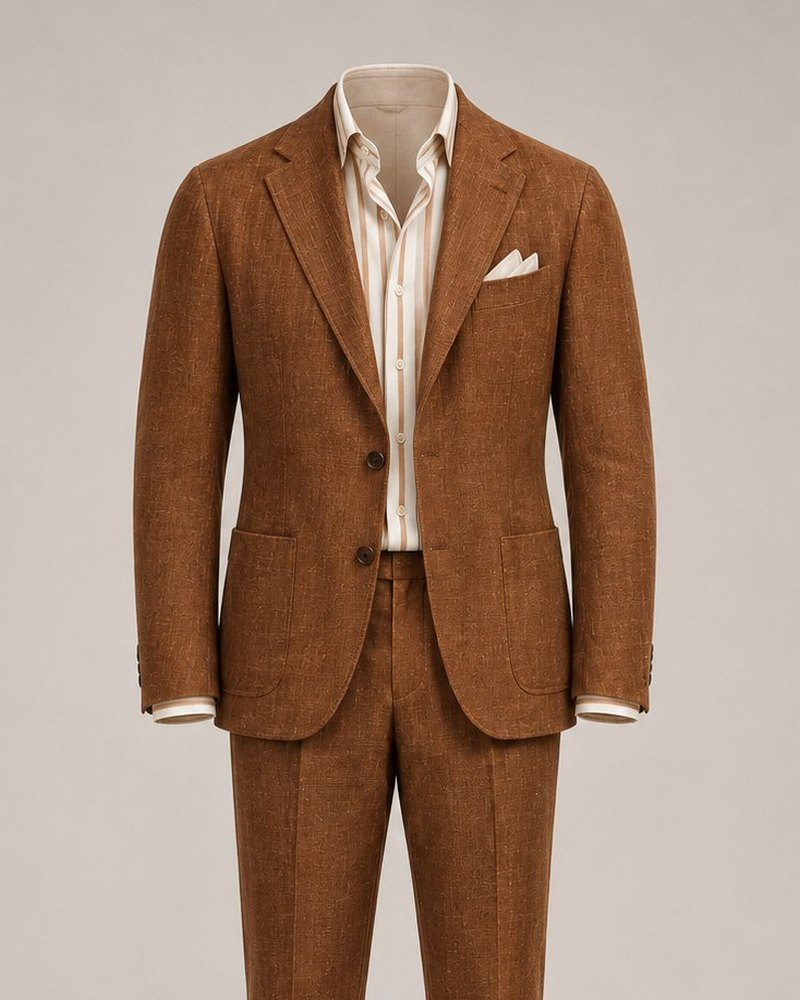
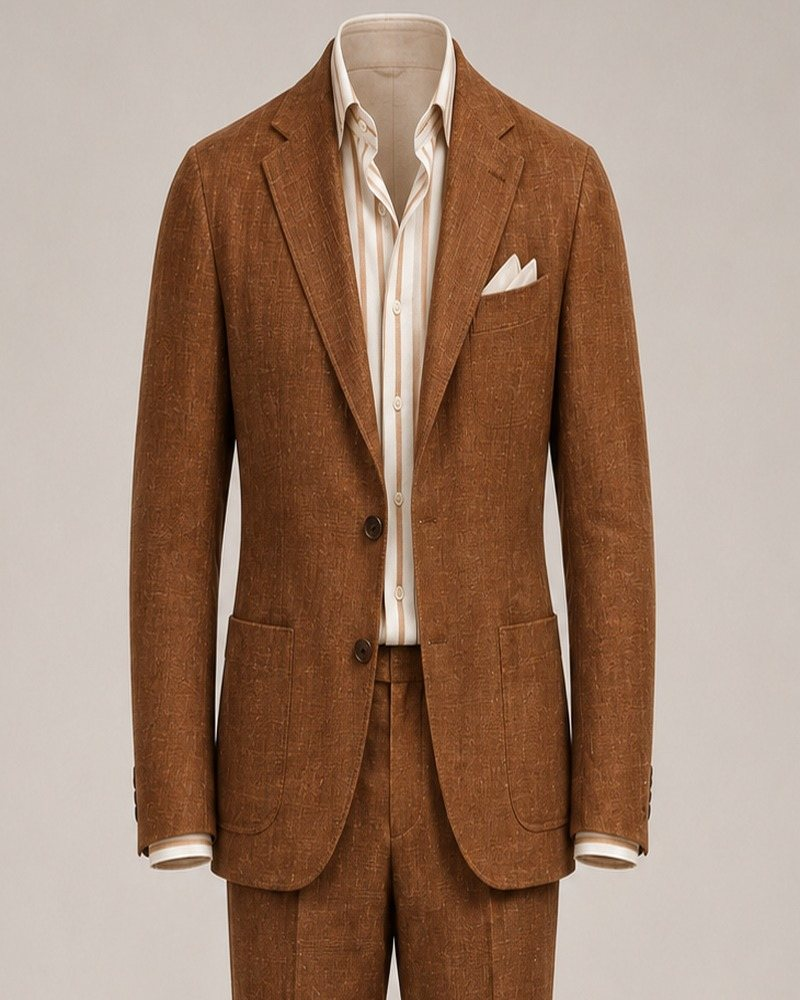
Use updated library: 13 jacket views, 10 standalone shoe styles with prices, euro prices, no est. badge

Changed region(s): [[0.1562, 0.0, 0.8438, 1.0], [0.6875, 0.217, 0.7188, 0.248]]

diff --git a/js/data.js b/js/data.js
@@ -21,67 +21,67 @@ window.CM = {
     { id: 'db180', season: 'all', name: "Dark Blue Pure S180's Wool",          c: '#172544', weave: 'plain',   usd: 1523, wear: 'Finest wool in the range.',                 occ: ['eve', 'wed', 'sig'] },
     { id: 'nwf', season: 'all',   name: 'Navy Pure Wrinkle-Free 4-Ply Wool',   c: '#1e2b46', weave: 'plain',   usd: 1023, wear: 'Resists creasing. Built for travel.',       occ: ['trv', 'off', 'int'] },
     { id: 'dgwc', season: 'winter',  name: 'Dark Green Wool Cashmere',            c: '#2e4a3b', weave: 'plain',   usd: 1023, wear: 'Soft cashmere blend in green.',             occ: ['eve', 'sig'] },
-    { id: 'mid_blue_windowpane', season: 'all', name: "Mid Blue Windowpane Wool", c: '#486b8c', weave: 'check', pat: "Windowpane check", usd: 923, wear: "Woven wool.", occ: ['off', 'int', 'wed'], lib: 'mid_blue_windowpane', est: true },
-    { id: 'charcoal_flannel', season: 'winter', name: "Charcoal Brushed Flannel", c: '#464747', weave: 'flannel', pat: "Flannel", usd: 923, wear: "Soft brushed surface. Warm.", occ: ['off', 'int', 'eve'], lib: 'charcoal_flannel', est: true },
-    { id: 'grey_glen_plaid', season: 'all', name: "Grey Glen Plaid Wool", c: '#999691', weave: 'check', pat: "Glen plaid", usd: 923, wear: "Woven wool.", occ: ['off', 'int', 'wed'], lib: 'grey_glen_plaid', est: true },
-    { id: 'navy_chalk_pinstripe', season: 'all', name: "Navy Chalk Pinstripe Wool", c: '#243045', weave: 'stripe', pat: "Pinstripe", usd: 923, wear: "Woven wool.", occ: ['off', 'int', 'eve'], lib: 'navy_chalk_pinstripe', est: true },
-    { id: 'brown_herringbone_tweed', season: 'winter', name: "Brown Herringbone Tweed", c: '#776251', weave: 'herring', pat: "Herringbone", usd: 1023, wear: "A zig-zag weave. Adds depth.", occ: ['cas', 'off', 'int'], lib: 'brown_herringbone_tweed', est: true },
-    { id: 'forest_green_hopsack', season: 'all', name: "Forest Green Hopsack", c: '#35463b', weave: 'textured', pat: "Hopsack", usd: 923, wear: "Open basket weave. Breathes well.", occ: ['wed', 'cas'], lib: 'forest_green_hopsack', est: true },
-    { id: 'burgundy_wool_twill', season: 'all', name: "Burgundy Wool Twill", c: '#622c3a', weave: 'plain', pat: "Fine twill", usd: 923, wear: "Smooth everyday wool.", occ: ['wed', 'eve'], lib: 'burgundy_wool_twill', est: true },
-    { id: 'ivory_irregular_linen', season: 'summer', name: "Ivory Irish Linen", c: '#daccb1', weave: 'plain', pat: "Linen", usd: 723, wear: "Airy and relaxed. Creases by design.", occ: ['wed', 'res'], lib: 'ivory_irregular_linen', est: true },
-    { id: 'sand_linen_blend', season: 'summer', name: "Sand Linen Blend", c: '#b6a082', weave: 'plain', pat: "Linen", usd: 773, wear: "Airy and relaxed. Creases by design.", occ: ['wed', 'res'], lib: 'sand_linen_blend', est: true },
-    { id: 'rust_linen', season: 'summer', name: "Rust Washed Linen", c: '#aa704e', weave: 'plain', pat: "Linen", usd: 723, wear: "Airy and relaxed. Creases by design.", occ: ['cas', 'res'], lib: 'rust_linen', est: true },
-    { id: 'sage_tropical_wool', season: 'summer', name: "Sage Green Tropical Wool", c: '#899987', weave: 'plain', pat: "Tropical weave", usd: 923, wear: "Open weave for warm weather.", occ: ['wed', 'res'], lib: 'sage_tropical_wool', est: true },
-    { id: 'midnight_blue_velvet', season: 'winter', name: "Midnight Blue Cotton Velvet", c: '#172545', weave: 'textured', pat: "Velvet", usd: 973, wear: "Rich pile with a soft sheen.", occ: ['eve'], lib: 'midnight_blue_velvet', est: true },
-    { id: 'cream_wool_silk', season: 'all', name: "Cream Wool Silk Blend", c: '#d1c2a7', weave: 'textured', pat: "Birdseye", usd: 1123, wear: "Tiny dotted pattern. Quiet from afar.", occ: ['wed', 'cas'], lib: 'cream_wool_silk', est: true },
-    { id: 'chocolate_brown_flannel', season: 'winter', name: "Chocolate Brown Flannel", c: '#53443c', weave: 'flannel', pat: "Flannel", usd: 923, wear: "Soft brushed surface. Warm.", occ: ['off', 'int', 'cas'], lib: 'chocolate_brown_flannel', est: true },
-    { id: 'charcoal_birdseye', season: 'all', name: "Charcoal Birdseye Wool", c: '#555a5b', weave: 'textured', pat: "Birdseye", usd: 923, wear: "Tiny dotted pattern. Quiet from afar.", occ: ['off', 'int', 'eve'], lib: 'charcoal_birdseye', est: true },
-    { id: 'sky_blue_seersucker', season: 'summer', name: "Sky Blue Seersucker", c: '#a5bfd2', weave: 'textured', pat: "Seersucker", usd: 673, wear: "Puckered cotton that stays cool.", occ: ['res', 'cas'], lib: 'sky_blue_seersucker', est: true },
-    { id: 'navy_mini_houndstooth', season: 'all', name: "Navy Mini Houndstooth", c: '#354254', weave: 'check', pat: "Houndstooth", usd: 923, wear: "Small broken check.", occ: ['off', 'int', 'wed'], lib: 'navy_mini_houndstooth', est: true },
-    { id: 'tobacco_prince_of_wales', season: 'winter', name: "Tobacco Prince of Wales Check", c: '#86705a', weave: 'check', pat: "Prince check", usd: 923, wear: "Woven wool.", occ: ['off', 'int', 'wed'], lib: 'tobacco_prince_of_wales', est: true },
-    { id: 'indigo_nailhead', season: 'all', name: "Indigo Nailhead Wool", c: '#304867', weave: 'check', pat: "Nailhead", usd: 923, wear: "Tiny dots in a regular grid.", occ: ['off', 'int', 'eve'], lib: 'indigo_nailhead', est: true },
-    { id: 'stone_boucle', season: 'winter', name: "Stone Boucl\u00c3\u00a9 Weave", c: '#d2c4ab', weave: 'textured', pat: "Boucle", usd: 873, wear: "Looped yarn with a soft, nubby surface.", occ: ['cas', 'wed'], lib: 'stone_boucle', est: true },
-    { id: 'olive_fine_corduroy', season: 'winter', name: "Olive Needlecord", c: '#5c6749', weave: 'textured', pat: "Corduroy", usd: 673, wear: "Ribbed cotton. Relaxed and warm.", occ: ['cas'], lib: 'olive_fine_corduroy', est: true },
-    { id: 'copper_wide_wale_corduroy', season: 'winter', name: "Copper Wide-Wale Corduroy", c: '#945a36', weave: 'textured', pat: "Corduroy wide", usd: 673, wear: "Woven wool.", occ: ['cas'], lib: 'copper_wide_wale_corduroy', est: true },
-    { id: 'ocean_blue_sharkskin', season: 'all', name: "Ocean Blue Sharkskin", c: '#54788f', weave: 'textured', pat: "Sharkskin", usd: 923, wear: "Fine two-tone weave with a subtle sheen.", occ: ['off', 'int', 'wed'], lib: 'ocean_blue_sharkskin', est: true },
-    { id: 'plum_dinner_velvet', season: 'winter', name: "Plum Evening Velvet", c: '#543148', weave: 'textured', pat: "Velvet", usd: 973, wear: "Rich pile with a soft sheen.", occ: ['eve'], lib: 'plum_dinner_velvet', est: true },
-    { id: 'camel_cashmere_wool', season: 'winter', name: "Camel Cashmere Wool", c: '#b29471', weave: 'plain', pat: "Cashmere", usd: 1223, wear: "Very soft. Warm without weight.", occ: ['off', 'int', 'cas'], lib: 'camel_cashmere_wool', est: true },
-    { id: 'steel_blue_microcheck', season: 'all', name: "Steel Blue Microcheck", c: '#5d7183', weave: 'check', pat: "Microcheck", usd: 923, wear: "Woven wool.", occ: ['off', 'int', 'wed'], lib: 'steel_blue_microcheck', est: true },
-    { id: 'tan_rust_overcheck', season: 'winter', name: "Tan Rust Overcheck", c: '#ad997e', weave: 'check', pat: "Overcheck", usd: 873, wear: "Woven wool.", occ: ['cas', 'off', 'int'], lib: 'tan_rust_overcheck', est: true },
-    { id: 'moss_basketweave', season: 'all', name: "Moss Basketweave", c: '#64745e', weave: 'textured', pat: "Basketweave", usd: 923, wear: "Chunky woven texture.", occ: ['cas', 'wed'], lib: 'moss_basketweave', est: true },
-    { id: 'midnight_mohair', season: 'all', name: "Midnight Mohair Blend", c: '#1c2d3a', weave: 'plain', pat: "Mohair", usd: 1123, wear: "Crisp, lustrous and light.", occ: ['eve', 'off', 'int'], lib: 'midnight_mohair', est: true },
-    { id: 'forest_blackwatch_tartan', season: 'winter', name: "Forest Blackwatch Tartan", c: '#304941', weave: 'check', pat: "Tartan", usd: 923, wear: "A traditional check in deep colours.", occ: ['sig', 'wed'], lib: 'forest_blackwatch_tartan', est: true }
+    { id: 'mid_blue_windowpane', season: 'all', name: "Mid Blue Windowpane Wool", c: '#486b8c', weave: 'check', pat: "Windowpane check", usd: 960, wear: "Woven wool.", occ: ['off', 'int', 'wed'], lib: 'mid_blue_windowpane' },
+    { id: 'charcoal_flannel', season: 'winter', name: "Charcoal Brushed Flannel", c: '#464747', weave: 'flannel', pat: "Flannel", usd: 837, wear: "Soft brushed surface. Warm.", occ: ['off', 'int', 'eve'], lib: 'charcoal_flannel' },
+    { id: 'grey_glen_plaid', season: 'all', name: "Grey Glen Plaid Wool", c: '#999691', weave: 'check', pat: "Glen plaid", usd: 902, wear: "Woven wool.", occ: ['off', 'int', 'wed'], lib: 'grey_glen_plaid' },
+    { id: 'navy_chalk_pinstripe', season: 'all', name: "Navy Chalk Pinstripe Wool", c: '#243045', weave: 'stripe', pat: "Pinstripe", usd: 937, wear: "Woven wool.", occ: ['off', 'int', 'eve'], lib: 'navy_chalk_pinstripe' },
+    { id: 'brown_herringbone_tweed', season: 'winter', name: "Brown Herringbone Tweed", c: '#776251', weave: 'herring', pat: "Herringbone", usd: 1053, wear: "A zig-zag weave. Adds depth.", occ: ['cas', 'off', 'int'], lib: 'brown_herringbone_tweed' },
+    { id: 'forest_green_hopsack', season: 'all', name: "Forest Green Hopsack", c: '#35463b', weave: 'textured', pat: "Hopsack", usd: 837, wear: "Open basket weave. Breathes well.", occ: ['wed', 'cas'], lib: 'forest_green_hopsack' },
+    { id: 'burgundy_wool_twill', season: 'all', name: "Burgundy Wool Twill", c: '#622c3a', weave: 'plain', pat: "Fine twill", usd: 861, wear: "Smooth everyday wool.", occ: ['wed', 'eve'], lib: 'burgundy_wool_twill' },
+    { id: 'ivory_irregular_linen', season: 'summer', name: "Ivory Irish Linen", c: '#daccb1', weave: 'plain', pat: "Linen", usd: 796, wear: "Airy and relaxed. Creases by design.", occ: ['wed', 'res'], lib: 'ivory_irregular_linen' },
+    { id: 'sand_linen_blend', season: 'summer', name: "Sand Linen Blend", c: '#b6a082', weave: 'plain', pat: "Linen", usd: 902, wear: "Airy and relaxed. Creases by design.", occ: ['wed', 'res'], lib: 'sand_linen_blend' },
+    { id: 'rust_linen', season: 'summer', name: "Rust Washed Linen", c: '#aa704e', weave: 'plain', pat: "Linen", usd: 736, wear: "Airy and relaxed. Creases by design.", occ: ['cas', 'res'], lib: 'rust_linen' },
+    { id: 'sage_tropical_wool', season: 'summer', name: "Sage Green Tropical Wool", c: '#899987', weave: 'plain', pat: "Tropical weave", usd: 766, wear: "Open weave for warm weather.", occ: ['wed', 'res'], lib: 'sage_tropical_wool' },
+    { id: 'midnight_blue_velvet', season: 'winter', name: "Midnight Blue Cotton Velvet", c: '#172545', weave: 'textured', pat: "Velvet", usd: 1147, wear: "Rich pile with a soft sheen.", occ: ['eve'], lib: 'midnight_blue_velvet' },
+    { id: 'cream_wool_silk', season: 'all', name: "Cream Wool Silk Blend", c: '#d1c2a7', weave: 'textured', pat: "Birdseye", usd: 902, wear: "Tiny dotted pattern. Quiet from afar.", occ: ['wed', 'cas'], lib: 'cream_wool_silk' },
+    { id: 'chocolate_brown_flannel', season: 'winter', name: "Chocolate Brown Flannel", c: '#53443c', weave: 'flannel', pat: "Flannel", usd: 837, wear: "Soft brushed surface. Warm.", occ: ['off', 'int', 'cas'], lib: 'chocolate_brown_flannel' },
+    { id: 'charcoal_birdseye', season: 'all', name: "Charcoal Birdseye Wool", c: '#555a5b', weave: 'textured', pat: "Birdseye", usd: 861, wear: "Tiny dotted pattern. Quiet from afar.", occ: ['off', 'int', 'eve'], lib: 'charcoal_birdseye' },
+    { id: 'sky_blue_seersucker', season: 'summer', name: "Sky Blue Seersucker", c: '#a5bfd2', weave: 'textured', pat: "Seersucker", usd: 684, wear: "Puckered cotton that stays cool.", occ: ['res', 'cas'], lib: 'sky_blue_seersucker' },
+    { id: 'navy_mini_houndstooth', season: 'all', name: "Navy Mini Houndstooth", c: '#354254', weave: 'check', pat: "Houndstooth", usd: 937, wear: "Small broken check.", occ: ['off', 'int', 'wed'], lib: 'navy_mini_houndstooth' },
+    { id: 'tobacco_prince_of_wales', season: 'winter', name: "Tobacco Prince of Wales Check", c: '#86705a', weave: 'check', pat: "Prince check", usd: 913, wear: "Woven wool.", occ: ['off', 'int', 'wed'], lib: 'tobacco_prince_of_wales' },
+    { id: 'indigo_nailhead', season: 'all', name: "Indigo Nailhead Wool", c: '#304867', weave: 'check', pat: "Nailhead", usd: 861, wear: "Tiny dots in a regular grid.", occ: ['off', 'int', 'eve'], lib: 'indigo_nailhead' },
+    { id: 'stone_boucle', season: 'winter', name: "Stone Boucl\u00c3\u00a9 Weave", c: '#d2c4ab', weave: 'textured', pat: "Boucle", usd: 966, wear: "Looped yarn with a soft, nubby surface.", occ: ['cas', 'wed'], lib: 'stone_boucle' },
+    { id: 'olive_fine_corduroy', season: 'winter', name: "Olive Needlecord", c: '#5c6749', weave: 'textured', pat: "Corduroy", usd: 669, wear: "Ribbed cotton. Relaxed and warm.", occ: ['cas'], lib: 'olive_fine_corduroy' },
+    { id: 'copper_wide_wale_corduroy', season: 'winter', name: "Copper Wide-Wale Corduroy", c: '#945a36', weave: 'textured', pat: "Corduroy wide", usd: 601, wear: "Woven wool.", occ: ['cas'], lib: 'copper_wide_wale_corduroy' },
+    { id: 'ocean_blue_sharkskin', season: 'all', name: "Ocean Blue Sharkskin", c: '#54788f', weave: 'textured', pat: "Sharkskin", usd: 861, wear: "Fine two-tone weave with a subtle sheen.", occ: ['off', 'int', 'wed'], lib: 'ocean_blue_sharkskin' },
+    { id: 'plum_dinner_velvet', season: 'winter', name: "Plum Evening Velvet", c: '#543148', weave: 'textured', pat: "Velvet", usd: 1147, wear: "Rich pile with a soft sheen.", occ: ['eve'], lib: 'plum_dinner_velvet' },
+    { id: 'camel_cashmere_wool', season: 'winter', name: "Camel Cashmere Wool", c: '#b29471', weave: 'plain', pat: "Cashmere", usd: 1351, wear: "Very soft. Warm without weight.", occ: ['off', 'int', 'cas'], lib: 'camel_cashmere_wool' },
+    { id: 'steel_blue_microcheck', season: 'all', name: "Steel Blue Microcheck", c: '#5d7183', weave: 'check', pat: "Microcheck", usd: 837, wear: "Woven wool.", occ: ['off', 'int', 'wed'], lib: 'steel_blue_microcheck' },
+    { id: 'tan_rust_overcheck', season: 'winter', name: "Tan Rust Overcheck", c: '#ad997e', weave: 'check', pat: "Overcheck", usd: 861, wear: "Woven wool.", occ: ['cas', 'off', 'int'], lib: 'tan_rust_overcheck' },
+    { id: 'moss_basketweave', season: 'all', name: "Moss Basketweave", c: '#64745e', weave: 'textured', pat: "Basketweave", usd: 884, wear: "Chunky woven texture.", occ: ['cas', 'wed'], lib: 'moss_basketweave' },
+    { id: 'midnight_mohair', season: 'all', name: "Midnight Mohair Blend", c: '#1c2d3a', weave: 'plain', pat: "Mohair", usd: 1036, wear: "Crisp, lustrous and light.", occ: ['eve', 'off', 'int'], lib: 'midnight_mohair' },
+    { id: 'forest_blackwatch_tartan', season: 'winter', name: "Forest Blackwatch Tartan", c: '#304941', weave: 'check', pat: "Tartan", usd: 931, wear: "A traditional check in deep colours.", occ: ['sig', 'wed'], lib: 'forest_blackwatch_tartan' }
   ],
 
   /* Designs: full-outfit photos per occasion, with a jacket-only view and a shoe photo where the library has one.
      Cloth names and compositions for library cloths are illustrative. */
   designs: [
-    { id: 'wedding-linen', occ: 'wed', name: "Ivory linen", desc: "Light linen for a summer ceremony", image: 'library/suits/wedding-linen.jpg', jacket: 'library/jackets/wedding-linen.jpg', shoes: 'wedding-linen' },
-    { id: 'cream-linen', occ: 'wed', name: "Cream linen", desc: "A softer cream, relaxed and airy", image: 'library/suits/cream-linen.jpg', cloth: 'ivory_irregular_linen', jacket: 'library/jackets/cream-linen.jpg' },
-    { id: 'modern-grey-check', occ: 'off', name: "Grey check", desc: "A tailored checked suit for work", image: 'library/suits/modern-grey-check.jpg', jacket: 'library/jackets/modern-grey-check.jpg', shoes: 'modern-grey-check' },
-    { id: 'brown-glen-plaid', occ: 'off', name: "Brown glen plaid", desc: "Warm plaid with a fine overcheck", image: 'library/suits/brown-glen-plaid.jpg', cloth: 'tobacco_prince_of_wales', jacket: 'library/jackets/brown-glen-plaid.jpg', shoes: 'brown-glen-plaid' },
-    { id: 'charcoal-pinstripe', occ: 'off', name: "Charcoal pinstripe", desc: "A three-piece with a waistcoat", image: 'library/suits/charcoal-pinstripe.jpg', cloth: 'dgstr', jacket: 'library/jackets/charcoal-pinstripe.jpg', shoes: 'charcoal-pinstripe' },
-    { id: 'smart-casual-blue', occ: 'cas', name: "Blue blazer", desc: "Blazer and cream trousers, no tie", image: 'library/suits/smart-casual-blue.jpg', jacket: 'library/jackets/smart-casual-blue.jpg', shoes: 'smart-casual-blue' },
-    { id: 'summer-resort-taupe', occ: 'res', name: "Sand linen", desc: "Light and easy for warm weather", image: 'library/suits/summer-resort-taupe.jpg', jacket: 'library/jackets/summer-resort-taupe.jpg' },
-    { id: 'rust-linen', occ: 'res', name: "Rust linen", desc: "A warm, washed linen colour", image: 'library/suits/rust-linen.jpg', cloth: 'rust_linen', jacket: 'library/jackets/rust-linen.jpg' },
-    { id: 'black-tie', occ: 'eve', name: "Black tie", desc: "Tuxedo with a peak lapel", image: 'library/suits/black-tie.jpg', jacket: 'library/jackets/black-tie.jpg', shoes: 'black-tie' },
-    { id: 'business-navy', occ: 'int', name: "Navy business", desc: "A polished navy wool suit", image: 'library/suits/business-navy.jpg', jacket: 'library/jackets/business-navy.jpg', shoes: 'business-navy' },
-    { id: 'travel-blue-grey', occ: 'trv', name: "Blue-grey casual", desc: "Soft tailoring with sneakers", image: 'library/suits/travel-blue-grey.jpg', jacket: 'library/jackets/travel-blue-grey.jpg', shoes: 'travel-blue-grey' },
-    { id: 'statement-forest', occ: 'sig', name: "Forest double-breasted", desc: "A textured green double-breasted suit", image: 'library/suits/statement-forest.jpg', jacket: 'library/jackets/statement-forest.jpg', shoes: 'statement-forest' },
-    { id: 'burgundy-modern', occ: 'sig', name: "Burgundy", desc: "A deep wine suit with a dark polo", image: 'library/suits/burgundy-modern.jpg', cloth: 'burgundy_wool_twill', jacket: 'library/jackets/burgundy-modern.jpg', shoes: 'burgundy-modern' }
+    { id: 'wedding-linen', occ: 'wed', name: "Ivory linen", desc: "Light linen for a summer ceremony", image: 'library/suits/wedding-linen.jpg', jacket: 'library/jackets/wedding-linen.jpg', shoes: 'dark_brown_tassel_loafers' },
+    { id: 'cream-linen', occ: 'wed', name: "Cream linen", desc: "A softer cream, relaxed and airy", image: 'library/suits/cream-linen.jpg', cloth: 'ivory_irregular_linen', jacket: 'library/jackets/cream-linen.jpg', shoes: 'tobacco_suede_penny_loafers' },
+    { id: 'modern-grey-check', occ: 'off', name: "Grey check", desc: "A tailored checked suit for work", image: 'library/suits/modern-grey-check.jpg', jacket: 'library/jackets/modern-grey-check.jpg', shoes: 'brown_double_monk_straps' },
+    { id: 'brown-glen-plaid', occ: 'off', name: "Brown glen plaid", desc: "Warm plaid with a fine overcheck", image: 'library/suits/brown-glen-plaid.jpg', cloth: 'tobacco_prince_of_wales', jacket: 'library/jackets/brown-glen-plaid.jpg', shoes: 'cognac_plain_toe_oxfords' },
+    { id: 'charcoal-pinstripe', occ: 'off', name: "Charcoal pinstripe", desc: "A three-piece with a waistcoat", image: 'library/suits/charcoal-pinstripe.jpg', cloth: 'dgstr', jacket: 'library/jackets/charcoal-pinstripe.jpg', shoes: 'black_cap_toe_oxfords' },
+    { id: 'smart-casual-blue', occ: 'cas', name: "Blue blazer", desc: "Blazer and cream trousers, no tie", image: 'library/suits/smart-casual-blue.jpg', jacket: 'library/jackets/smart-casual-blue.jpg', shoes: 'tobacco_suede_penny_loafers' },
+    { id: 'summer-resort-taupe', occ: 'res', name: "Sand linen", desc: "Light and easy for warm weather", image: 'library/suits/summer-resort-taupe.jpg', jacket: 'library/jackets/summer-resort-taupe.jpg', shoes: 'sand_suede_chukka_boots' },
+    { id: 'rust-linen', occ: 'res', name: "Rust linen", desc: "A warm, washed linen colour", image: 'library/suits/rust-linen.jpg', cloth: 'rust_linen', jacket: 'library/jackets/rust-linen.jpg', shoes: 'dark_brown_chelsea_boots' },
+    { id: 'black-tie', occ: 'eve', name: "Black tie", desc: "Tuxedo with a peak lapel", image: 'library/suits/black-tie.jpg', jacket: 'library/jackets/black-tie.jpg', shoes: 'black_cap_toe_oxfords' },
+    { id: 'business-navy', occ: 'int', name: "Navy business", desc: "A polished navy wool suit", image: 'library/suits/business-navy.jpg', jacket: 'library/jackets/business-navy.jpg', shoes: 'black_cap_toe_oxfords' },
+    { id: 'travel-blue-grey', occ: 'trv', name: "Blue-grey casual", desc: "Soft tailoring with sneakers", image: 'library/suits/travel-blue-grey.jpg', jacket: 'library/jackets/travel-blue-grey.jpg', shoes: 'white_minimal_leather_sneakers' },
+    { id: 'statement-forest', occ: 'sig', name: "Forest double-breasted", desc: "A textured green double-breasted suit", image: 'library/suits/statement-forest.jpg', jacket: 'library/jackets/statement-forest.jpg', shoes: 'brown_double_monk_straps' },
+    { id: 'burgundy-modern', occ: 'sig', name: "Burgundy", desc: "A deep wine suit with a dark polo", image: 'library/suits/burgundy-modern.jpg', cloth: 'burgundy_wool_twill', jacket: 'library/jackets/burgundy-modern.jpg', shoes: 'black_wingtip_brogues' }
   ],
 
   shoeStyles: [
-    { id: 'charcoal-pinstripe', name: "Black Leather Cap-Toe Oxfords", color: 'black', type: "cap-toe oxford", image: 'library/shoes/charcoal-pinstripe.jpg' },
-    { id: 'business-navy', name: "Black Leather Lace-Up Oxfords", color: 'black', type: "oxford", image: 'library/shoes/business-navy.jpg' },
-    { id: 'black-tie', name: "Black Patent Formal Lace-Ups", color: 'black', type: "formal oxford", image: 'library/shoes/black-tie.jpg' },
-    { id: 'modern-grey-check', name: "Oxblood Leather Penny Loafers", color: 'oxblood', type: "penny loafer", image: 'library/shoes/modern-grey-check.jpg' },
-    { id: 'statement-forest', name: "Chocolate Leather Loafers", color: 'dark brown', type: "loafer", image: 'library/shoes/statement-forest.jpg' },
-    { id: 'smart-casual-blue', name: "Dark Brown Suede Penny Loafers", color: 'brown', type: "suede loafer", image: 'library/shoes/smart-casual-blue.jpg' },
-    { id: 'wedding-linen', name: "Brown Suede Dress Loafers", color: 'brown', type: "suede loafer", image: 'library/shoes/wedding-linen.jpg' },
-    { id: 'travel-blue-grey', name: "Minimal White Leather Sneakers", color: 'white', type: "sneaker", image: 'library/shoes/travel-blue-grey.jpg' },
-    { id: 'burgundy-modern', name: "Black Leather Chelsea Boots", color: 'black', type: "chelsea boot", image: 'library/shoes/burgundy-modern.jpg' },
-    { id: 'brown-glen-plaid', name: "Burgundy Brown Leather Loafers", color: 'brown', type: "loafer", image: 'library/shoes/brown-glen-plaid.jpg' }
+    { id: 'black_cap_toe_oxfords', name: "Black Cap-Toe Oxfords", color: "black", type: "oxford", material: "calf leather", price: 420, image: 'library/shoes/black_cap_toe_oxfords.jpg' },
+    { id: 'cognac_plain_toe_oxfords', name: "Cognac Plain-Toe Oxfords", color: "cognac", type: "oxford", material: "calf leather", price: 395, image: 'library/shoes/cognac_plain_toe_oxfords.jpg' },
+    { id: 'black_wingtip_brogues', name: "Black Wingtip Brogues", color: "black", type: "brogue", material: "calf leather", price: 450, image: 'library/shoes/black_wingtip_brogues.jpg' },
+    { id: 'brown_double_monk_straps', name: "Brown Double Monk Straps", color: "brown", type: "monk strap", material: "calf leather", price: 440, image: 'library/shoes/brown_double_monk_straps.jpg' },
+    { id: 'dark_brown_tassel_loafers', name: "Dark Brown Tassel Loafers", color: "dark brown", type: "tassel loafer", material: "calf leather", price: 385, image: 'library/shoes/dark_brown_tassel_loafers.jpg' },
+    { id: 'black_penny_loafers', name: "Black Penny Loafers", color: "black", type: "penny loafer", material: "calf leather", price: 360, image: 'library/shoes/black_penny_loafers.jpg' },
+    { id: 'tobacco_suede_penny_loafers', name: "Tobacco Suede Penny Loafers", color: "tobacco", type: "suede loafer", material: "suede", price: 320, image: 'library/shoes/tobacco_suede_penny_loafers.jpg' },
+    { id: 'dark_brown_chelsea_boots', name: "Dark Brown Chelsea Boots", color: "dark brown", type: "chelsea boot", material: "calf leather", price: 480, image: 'library/shoes/dark_brown_chelsea_boots.jpg' },
+    { id: 'sand_suede_chukka_boots', name: "Sand Suede Chukka Boots", color: "sand", type: "chukka boot", material: "suede", price: 425, image: 'library/shoes/sand_suede_chukka_boots.jpg' },
+    { id: 'white_minimal_leather_sneakers', name: "White Minimal Leather Sneakers", color: "white", type: "sneaker", material: "leather", price: 295, image: 'library/shoes/white_minimal_leather_sneakers.jpg' }
   ],
 
   occasions: [

diff --git a/js/app.js b/js/app.js
@@ -176,7 +176,7 @@
     if (st.style.canvas === 'full') out.push(['Full canvas', 150]);
     if (st.style.button === 'mop') out.push(['Mother-of-pearl buttons', 25]);
     if (st.mono.trim()) out.push(['Monogram ' + st.mono.toUpperCase(), 15]);
-    D.extras.forEach(function (x) { if (st.on[x.id]) out.push([x.id === 'shoes' && st.shoe && shoeSel() ? x.name + ', ' + shoeSel().name.toLowerCase() : x.name + (st.col[x.id] ? ', ' + cname(st.col[x.id]).toLowerCase() : ''), x.price]); });
+    D.extras.forEach(function (x) { if (st.on[x.id]) out.push([x.id === 'shoes' ? shoeSel().name : x.name + (st.col[x.id] ? ', ' + cname(st.col[x.id]).toLowerCase() : ''), extraPrice(x)]); });
     return out;
   }
   function total() { return lines().reduce(function (s, l) { return s + l[1]; }, 0); }
@@ -217,7 +217,7 @@
       var b = el('button', 'card'); b.type = 'button'; b.setAttribute('aria-pressed', String(x.c.id === st.cloth));
       b.innerHTML = '<span class="img"><span class="sw" style="' + swatch(x.c, 130) + '"></span>' +
         (i === 0 && !st.all ? '<span class="badge">Best match</span>' : '') + '<span class="pct">' + x.pct + '%</span></span>' +
-        '<span class="nm">' + x.c.name + '</span><span class="sub">' + x.c.wear + '</span><span class="pc">' + money(eur(x.c.usd)) + (x.c.est ? ' <small title="Estimated price for this concept cloth">est.</small>' : '') + '</span>';
+        '<span class="nm">' + x.c.name + '</span><span class="sub">' + x.c.wear + '</span><span class="pc">' + money(eur(x.c.usd)) + '</span>';
       b.onclick = function () { st.cloth = x.c.id; st.view = 'full'; resetOutfit(); update(); };
       return b;
     }));
@@ -367,13 +367,14 @@
   /* ---------- extras ---------- */
   function shoeSel() {
     var id = st.shoe || (curDesign() && curDesign().shoes) || null;
-    return id ? D.shoeStyles.filter(function (s) { return s.id === id; })[0] || null : null;
+    return D.shoeStyles.filter(function (s) { return s.id === id; })[0] || D.shoeStyles[0];
   }
+  function extraPrice(x) { return x.id === 'shoes' ? shoeSel().price : x.price; }
   function renderExtras() {
     var r = recs();
     fill('extras', D.extras.map(function (x) {
       var on = !!st.on[x.id], card = el('div', 'card extra' + (on ? ' on' : ''));
-      var shoeS = x.id === 'shoes' && st.shoe ? shoeSel() : null;
+      var shoeS = x.id === 'shoes' ? shoeSel() : null;
       var selectedImage = x.variants && st.col[x.id] && x.variants[st.col[x.id]] ? x.variants[st.col[x.id]] : x.image;
       var img = el('button', 'img'); img.type = 'button'; img.setAttribute('aria-pressed', String(on)); img.setAttribute('aria-label', (on ? 'Remove ' : 'Add ') + x.name);
       img.style.border = '0'; img.style.padding = '0'; img.style.cursor = 'pointer';
@@ -381,11 +382,11 @@
       img.onclick = function () { st.on[x.id] = !on; update(); };
       card.appendChild(img);
       card.appendChild(el('span', 'nm', x.name));
-      var detail = shoeS ? shoeS.name + ' · style reference' : st.col[x.id] ? cname(st.col[x.id]) + (st.col[x.id] === (r[x.id] || [])[0] ? ' · recommended colour' : '') : (x.detail || 'Pairs with your selected look');
+      var detail = shoeS ? shoeS.name + ' · ' + shoeS.material : st.col[x.id] ? cname(st.col[x.id]) + (st.col[x.id] === (r[x.id] || [])[0] ? ' · recommended colour' : '') : (x.detail || 'Pairs with your selected look');
       if (x.id === 'vest' || x.id === 'trs2') detail = (x.detail || 'Style reference') + ' · cut from ' + cloth().name;
       card.appendChild(el('span', 'sub', detail));
-      card.appendChild(el('span', 'pc', money(x.price)));
-      if (r[x.id]) {
+      card.appendChild(el('span', 'pc', money(extraPrice(x))));
+      if (r[x.id] && x.id !== 'shoes') {
         var o = el('div', 'opts');
         r[x.id].forEach(function (c) { o.appendChild(dot(c, st.col[x.id] === c, x.name + ' in ' + cname(c), function () { st.col[x.id] = c; if (x.id === 'shoes') st.shoe = null; st.on[x.id] = true; update(); }, true)); });
         card.appendChild(o);
@@ -393,11 +394,14 @@
       if (x.id === 'shoes') {
         var so = el('div', 'shoe-opts'); so.setAttribute('role', 'group'); so.setAttribute('aria-label', 'Shoe style');
         D.shoeStyles.forEach(function (s) {
-          var bt = el('button', 'shoe-opt'); bt.type = 'button'; bt.title = s.name; bt.setAttribute('aria-label', s.name); bt.setAttribute('aria-pressed', String(st.shoe === s.id));
+          var bt = el('button', 'shoe-opt'); bt.type = 'button'; bt.title = s.name + ' · ' + money(s.price); bt.setAttribute('aria-label', s.name + ', ' + money(s.price)); bt.setAttribute('aria-pressed', String(!!st.on.shoes && shoeSel().id === s.id));
           bt.innerHTML = '<img loading="lazy" src="assets/img/' + s.image + '" alt="">';
-          bt.onclick = function () { st.shoe = st.shoe === s.id ? null : s.id; st.on.shoes = true; update(); };
+          bt.onclick = function () { st.shoe = s.id; st.on.shoes = true; update(); };
           so.appendChild(bt);
         });
+        var nb = el('button', 'shoe-opt none', 'No shoes'); nb.type = 'button'; nb.setAttribute('aria-pressed', String(!st.on.shoes));
+        nb.onclick = function () { st.on.shoes = false; update(); };
+        so.appendChild(nb);
         card.appendChild(so);
       }
       return card;
@@ -432,10 +436,10 @@
     D.extras.forEach(function (x) {
       if (st.on[x.id]) {
         var itemImage = x.variants && st.col[x.id] && x.variants[st.col[x.id]] ? x.variants[st.col[x.id]] : x.image;
-        var shoeR = x.id === 'shoes' && st.shoe ? shoeSel() : null;
-        var itemSub = shoeR ? shoeR.name : st.col[x.id] ? cname(st.col[x.id]) : (x.detail || 'Selected extra');
+        var shoeR = x.id === 'shoes' ? shoeSel() : null;
+        var itemSub = shoeR ? shoeR.name + ' · ' + shoeR.material : st.col[x.id] ? cname(st.col[x.id]) : (x.detail || 'Selected extra');
         if (x.id === 'vest' || x.id === 'trs2') itemSub = (x.detail || 'Style reference') + ' · cut from ' + c.name;
-        items.push({ img: '<img class="review-product-photo" src="' + (shoeR ? 'assets/img/' + shoeR.image : 'assets/img/extras/' + itemImage) + '" alt="">', nm: x.name, sub: itemSub, pc: x.price });
+        items.push({ img: '<img class="review-product-photo" src="' + (shoeR ? 'assets/img/' + shoeR.image : 'assets/img/extras/' + itemImage) + '" alt="">', nm: x.name, sub: itemSub, pc: extraPrice(x) });
       }
     });
     if (st.mono.trim()) items.push({ img: '<div class=\"review-monogram\"><span>' + st.mono.toUpperCase() + '</span></div>', nm: 'Embroidered monogram', sub: 'Inside jacket lining · ' + st.mono.toUpperCase(), pc: 15 });
@@ -514,7 +518,7 @@
   function renderAdvisor() {
     if (!document.body.classList.contains('adv')) return;
     var box = $('advisorView'), c = cloth(), shot = lookImage(), sg = suggest(), g = st.group || sg.group;
-    var ex = D.extras.filter(function (x) { return st.on[x.id]; }).map(function (x) { return x.id === 'shoes' && st.shoe && shoeSel() ? x.name + ' (' + shoeSel().name.toLowerCase() + ')' : x.name + (st.col[x.id] ? ' (' + cname(st.col[x.id]).toLowerCase() + ')' : ''); });
+    var ex = D.extras.filter(function (x) { return st.on[x.id]; }).map(function (x) { return x.id === 'shoes' ? x.name + ' (' + shoeSel().name.toLowerCase() + ')' : x.name + (st.col[x.id] ? ' (' + cname(st.col[x.id]).toLowerCase() + ')' : ''); });
     var checks = ['Pull ' + c.name + ' from the cloth book'];
     if (!st.size) checks.push('No size chosen yet. Measure and find a starting size by try-on');
     else if (st.level === 'Low') checks.push('Low confidence on ' + sizeText() + '. Measure before the fitting');

diff --git a/tests/stylist-test.html b/tests/stylist-test.html
@@ -149,12 +149,15 @@
     record('pick Cream linen, then Jacket only', 'the tab is there and shows the jacket photo', 'hidden: ' + $('viewJacket').hidden + ', ' + $('suitFullImage').getAttribute('src'), $('viewJacket').hidden === false && /jackets\/cream-linen/.test($('suitFullImage').getAttribute('src')));
     $('viewFull').click(); await w(200);
     $('tab-3').click(); await w(300);
-    var shoeBtns = doc.querySelectorAll('.shoe-opt');
+    var shoeBtns = doc.querySelectorAll('.shoe-opt:not(.none)');
     record('Extras shoe styles', 'ten styles offered', shoeBtns.length + ' styles', shoeBtns.length === 10);
     shoeBtns[2].click(); await w(300);
     var shoeCard = Array.prototype.filter.call(doc.querySelectorAll('#extras .card'), function (c) { return /Leather shoes/.test(c.textContent); })[0];
     record('pick a shoe style', 'the card shows that photo and it is added', shoeCard.querySelector('img').getAttribute('src') + ', added: ' + shoeCard.classList.contains('on'), /library\/shoes\//.test(shoeCard.querySelector('img').getAttribute('src')) && shoeCard.classList.contains('on'));
-    await w(700);
+    var noBtn = doc.querySelector('.shoe-opt.none'); noBtn.click(); await w(300);
+    shoeCard = Array.prototype.filter.call(doc.querySelectorAll('#extras .card'), function (c) { return /Leather shoes/.test(c.textContent); })[0];
+    record('choose No shoes', 'shoes are removed from the order', 'added: ' + shoeCard.classList.contains('on'), !shoeCard.classList.contains('on'));
+    doc.querySelectorAll('.shoe-opt:not(.none)')[2].click(); await w(700);
     var saved = win.localStorage.getItem('cm-state-v2') || '';
     record('state is saved', 'design and shoe style are stored', saved.slice(0, 0) + (/"design":"cream-linen"/.test(saved) ? 'design stored' : 'design missing') + ', ' + (/"shoe":"/.test(saved) ? 'shoe stored' : 'shoe missing'), /"design":"cream-linen"/.test(saved) && /"shoe":"/.test(saved));
     var keep = saved;

diff --git a/css/style.css b/css/style.css
@@ -556,7 +556,9 @@ body.adv .studio{min-height:0}
 .design img{display:block;width:100%;aspect-ratio:3/4;object-fit:cover;object-position:top;border-radius:6px;background:var(--ground)}
 .design b{display:block;font-size:.8rem;font-weight:600;margin-top:6px;line-height:1.25}
 .shoe-opts{display:flex;flex-wrap:wrap;gap:6px;margin-top:8px}
-.shoe-opt{width:68px;height:44px;padding:0;border:1px solid var(--line,#e2e2de);border-radius:6px;overflow:hidden;background:var(--ground);cursor:pointer}
+.shoe-opt{width:62px;height:62px;padding:0;border:1px solid var(--line,#e2e2de);border-radius:6px;overflow:hidden;background:var(--ground);cursor:pointer}
 .shoe-opt[aria-pressed=true]{border-color:currentColor;box-shadow:0 0 0 1px currentColor}
-.shoe-opt img{width:100%;height:100%;object-fit:cover;object-position:center 62%;transform:scale(1.7)}
+.shoe-opt img{width:100%;height:100%;object-fit:cover;}
 .pc small{font-size:.72rem;color:var(--muted);font-weight:400}
+.shoe-opt.none{width:auto;padding:0 12px;height:62px;font:inherit;font-size:.8rem;color:var(--ink);background:var(--bg)}
+.pc small{display:none}

diff --git a/index.html b/index.html
@@ -8,7 +8,7 @@
 <link rel="preconnect" href="https://fonts.googleapis.com">
 <link rel="preconnect" href="https://fonts.gstatic.com" crossorigin>
 <link rel="stylesheet" href="https://fonts.googleapis.com/css2?family=Hanken+Grotesk:wght@400;500;600&family=IBM+Plex+Mono:wght@500&display=swap">
-<link rel="stylesheet" href="css/style.css?v=80">
+<link rel="stylesheet" href="css/style.css?v=81">
 </head>
 <body>
 
@@ -317,10 +317,10 @@
   <p id="zoomCaption">High-resolution product image</p>
 </div>
 
-<script src="js/data.js?v=80"></script>
-<script src="js/config.js?v=80"></script>
-<script src="js/assistant.js?v=80"></script>
-<script src="js/stylist.js?v=80"></script>
-<script src="js/app.js?v=80"></script>
+<script src="js/data.js?v=81"></script>
+<script src="js/config.js?v=81"></script>
+<script src="js/assistant.js?v=81"></script>
+<script src="js/stylist.js?v=81"></script>
+<script src="js/app.js?v=81"></script>
 </body>
 </html>

diff --git a/README.md b/README.md
@@ -34,7 +34,7 @@ A learning project built with AI. Plain HTML, CSS and JavaScript. No framework, 
 - **Colour and photo matching.** Any colour, hex code or uploaded photo is matched to the closest of 46 cloths.
 - **Style presets** that say what they change. Combinations that cannot be made are disabled with the reason.
 - **Find my size.** One suggested size with a High, Medium or Low confidence label and the reason. A low result offers a store fitting. A size grid is there for people who know theirs.
-- **Extras** in matching colours, each with its own photo, ten shoe styles and a monogram preview. Prices are itemised in euros.
+- **Extras** in matching colours, each with its own photo, ten shoe styles with their own prices, or no shoes and a monogram preview. Prices are itemised in euros.
 - **Style me**, inside the Cloth step. It starts collapsed. Open it, type a line or add an inspiration photo and get three ranked looks. Pick one to apply it, or refine with Darker, Lighter, Cheaper, More relaxed or More formal. Questions get a short answer. It runs in the browser with no setup.
 - **Client / Advisor switch.** Advisor mode shows a fitting sheet: the look, contact details, a sample schedule, the suggested and final size, adjustments and notes. It can be printed.
 - **Remembers you on this device:** resume, a saved size, a link that reopens the design, and a calendar file for the fitting.
@@ -72,7 +72,7 @@ Style me works without it. To let Claude read the photo, deploy `worker/claude-v
 
 ## Image library
 
-`assets/img/library` holds the 97 concept images from the supplied pack (33 fabric swatches, 33 fabric textures, 13 suits, 9 jacket-only views, 9 shoe pairs) plus 5 crops made from the suit photos: jacket-only views for four designs and a shoe photo for the charcoal pinstripe. Textures are digitally made, not mill photographs, and shoe photos are crops from the suit pictures. Cloth names and compositions for the library cloths are illustrative, and their prices are estimates, marked "est." in the app.
+`assets/img/library` holds 102 concept images: 33 fabric swatches, 33 fabric textures, 13 suits, 13 jacket-only views and 10 standalone shoe styles. Textures are synthetic illustrations, not mill photographs. The shoe photos are crops from one generated studio board and have limited detail. Cloth names, compositions and all prices for the library items are fictional demo values, not retail prices.
 
 ## Notes
 
